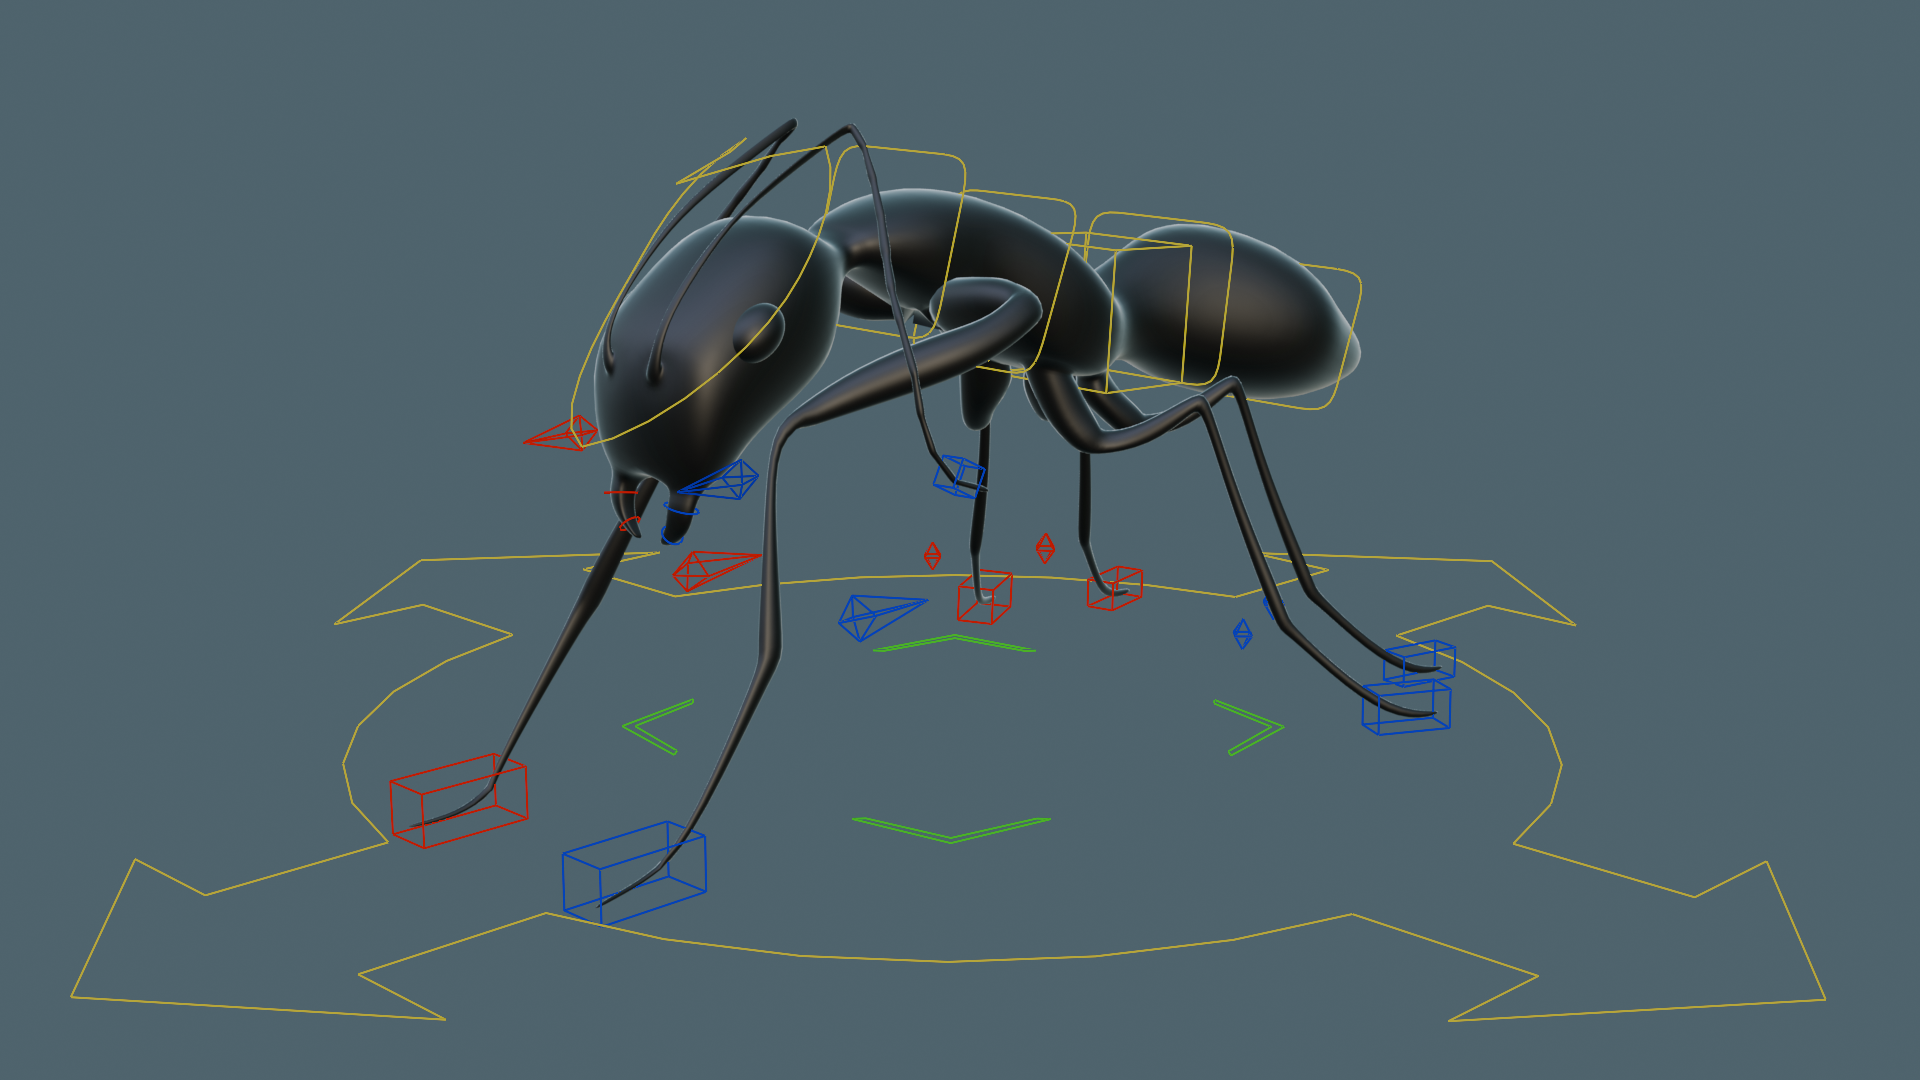
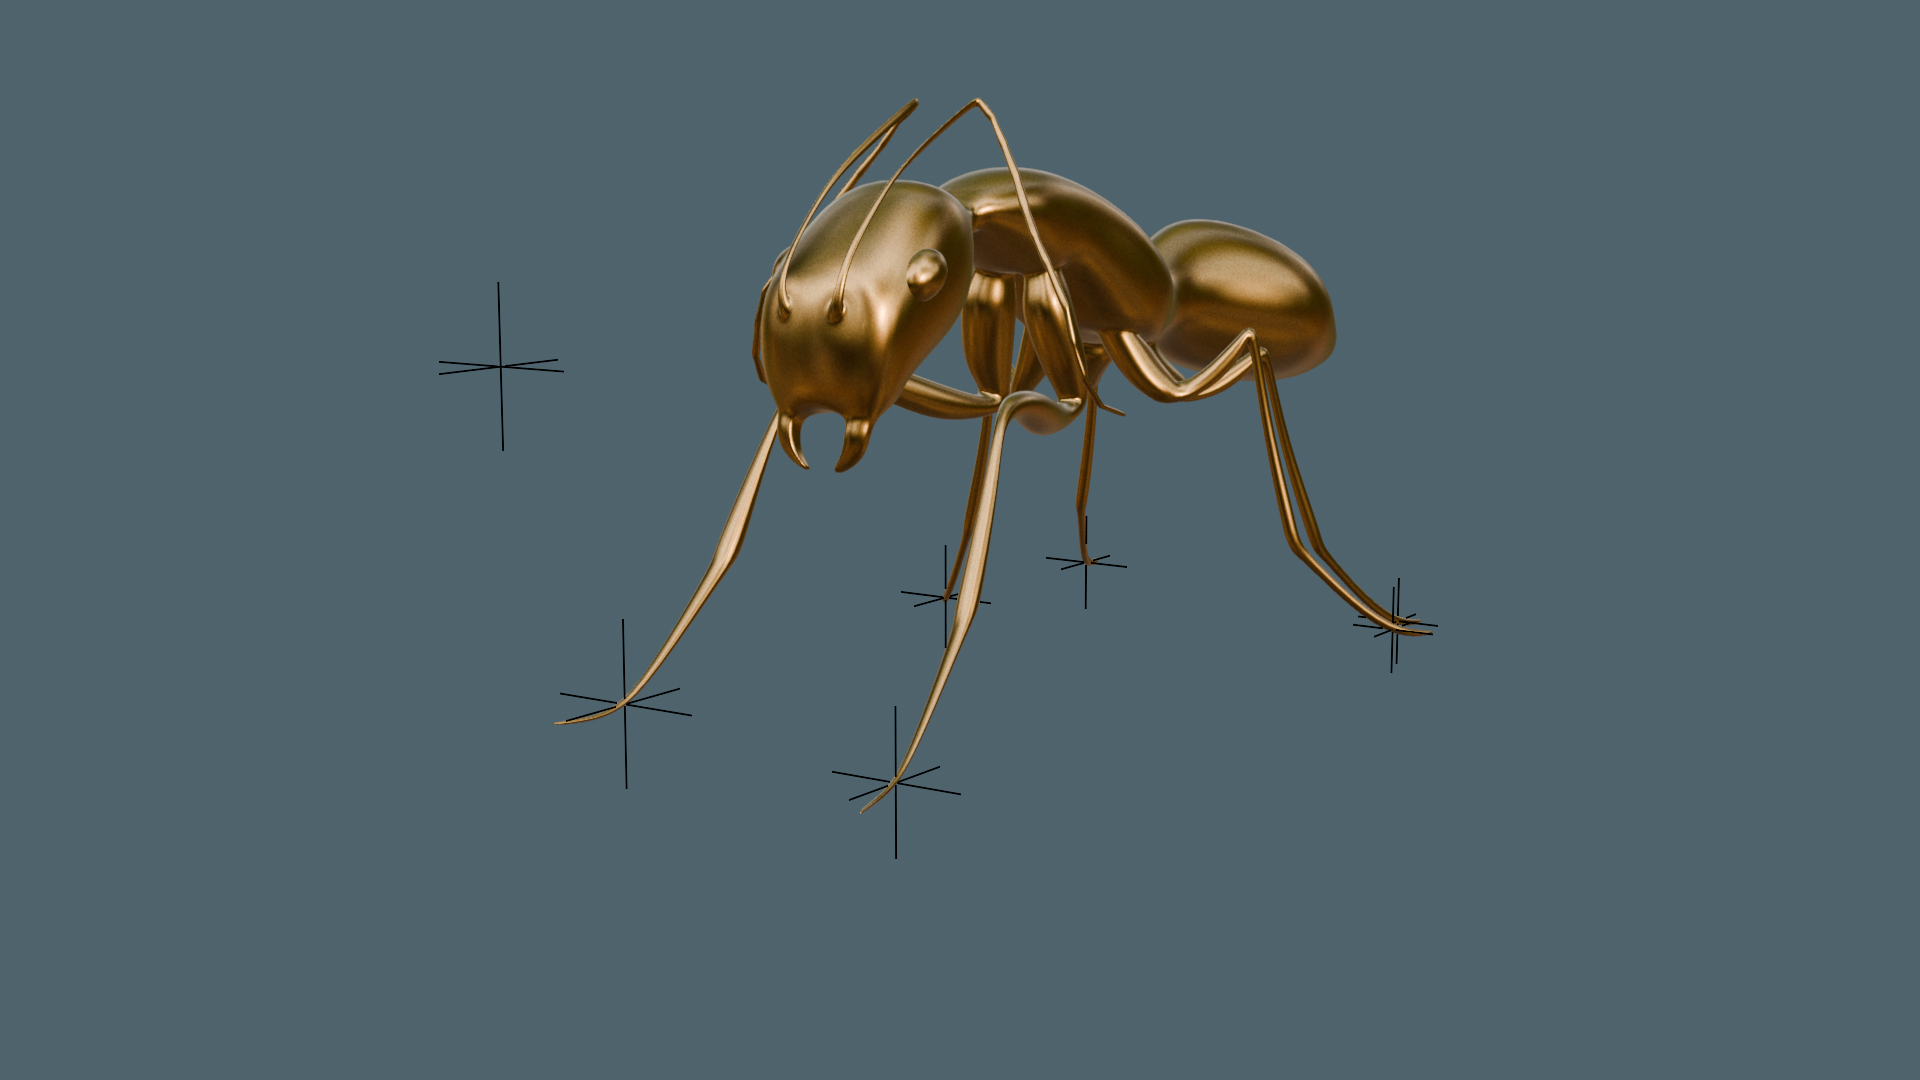
Update project data and enhance project card functionality: add new images, refine tags, and implement tag filtering

diff --git a/src/data/projects.ts b/src/data/projects.ts
@@ -535,7 +535,7 @@ export const projectGroups: ProjectGroup[] = [
         title: 'Girl Rig',
         description:
           'Stylized girl character rig with jiggle bones for hair and clothing movement, corrective shapes and toggleable IK/FK controls, validated through a series of animation tests.',
-        tags: [{ label: 'Blender' }, { label: 'IK/FK' }, { label: 'Jiggle Bones' }],
+        tags: [{ label: 'Blender' }, { label: 'Unity' }, { label: 'IK/FK' }, { label: 'Jiggle Bones' }, { label: 'Animation' }, { label: 'Custom UI' }, { label: 'Physics' }, { label: 'Game-Ready' }],
         ariaLabel: 'Abrir Girl Rig',
         image: projects.girl.preview,
         project: 'girl',
@@ -546,7 +546,7 @@ export const projectGroups: ProjectGroup[] = [
         title: 'Bunny Rig',
         description:
           'Stylized bunny character rig with FK limbs, facial controls and corrective shapes, built for simple movements during the Gauntlet Of Gods challenge animation.',
-        tags: [{ label: 'Blender' }, { label: 'FK Controls' }, { label: 'Corrective Shapes' }],
+        tags: [{ label: 'Blender' }, { label: 'Animation' }, { label: 'FK Controls' }, { label: 'Corrective Shapes' }],
         ariaLabel: 'Abrir Bunny Rig',
         image: projects.bunny.preview,
         project: 'bunny',
@@ -568,7 +568,7 @@ export const projectGroups: ProjectGroup[] = [
         title: 'Gatoppel',
         description:
           'Stylized cat character rig with FK limbs, intuitive control curves and secondary motion for lively performances.',
-        tags: [{ label: 'Blender' }, { label: 'FK Limbs' }, { label: 'Control Curves' }],
+        tags: [{ label: 'Blender' }, { label: 'Custom UI' }, { label: 'FK Limbs' }, { label: 'Control Curves' }],
         ariaLabel: 'Abrir Gatoppel',
         image: projects.gatoppel.preview,
         project: 'gatoppel',
@@ -579,7 +579,7 @@ export const projectGroups: ProjectGroup[] = [
         title: 'Mercy Rig',
         description:
           'Mercy character rig with FK and IK setups for body and legs, detailed hand, facial and body controls, with switches for IK/FK and enabling or disabling controls. Designed for animation and game development.',
-        tags: [{ label: 'Maya' }, { label: 'IK/FK' }, { label: 'Game-Ready' }, { label: 'WIP' }],
+        tags: [{ label: 'Maya' }, { label: 'IK/FK' }, { label: 'Blendshapes' }, { label: 'Deformation' }, { label: 'Custom UI' }, { label: 'WIP' }],
         ariaLabel: 'Abrir Mercy Rig',
         image: projects['mercy-rig'].preview,
         project: 'mercy-rig',
@@ -590,7 +590,7 @@ export const projectGroups: ProjectGroup[] = [
         title: 'Monster Leg',
         description:
           'Creature leg rig with IK/FK blending, corrective shapes and foot roll, built for monster locomotion.',
-        tags: [{ label: 'Maya' }, { label: 'IK/FK' }, { label: 'Foot Controls' }],
+        tags: [{ label: 'Maya' }, { label: 'Deformation' }, { label: 'IK/FK' }, { label: 'Foot Controls' }],
         ariaLabel: 'Abrir Monster Leg',
         image: projects['monster-leg'].preview,
         project: 'monster-leg',
@@ -634,7 +634,7 @@ export const projectGroups: ProjectGroup[] = [
         title: 'Bear Rig - AR',
         description:
           'Lightweight rig for an augmented reality mobile experience in Unity, triggered via QR code scanning on a presentation card, optimized for a low-poly mesh with intuitive controls.',
-        tags: [{ label: 'Unity' }, { label: 'AR' }, { label: 'Low Poly' }],
+        tags: [{ label: 'Blender' }, { label: 'Unity' }, { label: 'AR' }, { label: 'Low Poly' }, { label: 'Animation' }, { label: 'Game-Ready' }],
         ariaLabel: 'Abrir Bear Rig',
         image: projects.bear.preview,
         project: 'bear',
@@ -645,7 +645,7 @@ export const projectGroups: ProjectGroup[] = [
         title: 'Ant Model',
         description:
           'Low poly character model made for rigging, optimized to be used on a C++ with DirectX 11 engine.',
-        tags: [{ label: 'Blender' }, { label: 'Modeling' }, { label: 'Low Poly' }],
+        tags: [{ label: 'Blender' }, { label: 'Modeling' }, { label: 'Low Poly' }, { label: 'Game-Ready' }],
         ariaLabel: 'Abrir Ant Model',
         image: projects['ant-model'].preview,
         project: 'ant-model',
@@ -661,7 +661,7 @@ export const projectGroups: ProjectGroup[] = [
         title: 'Complex Arm',
         description:
           'Hard-surface rig in Maya with precise constraints and FK controls for mechanical articulation and ease of use.',
-        tags: [{ label: 'Maya' }],
+        tags: [{ label: 'Maya' }, { label: 'Custom UI' }],
         ariaLabel: 'Abrir Complex Arm',
         image: projects['mechanical-arm'].preview,
         project: 'mechanical-arm',
@@ -705,7 +705,7 @@ export const projectGroups: ProjectGroup[] = [
         title: 'Simple Arm',
         description:
           'Simple robotic arm rig with articulated joints and clean constraints for mechanical motion tests.',
-        tags: [{ label: 'Maya' }],
+        tags: [{ label: 'Maya' }, { label: 'Custom UI' }],
         ariaLabel: 'Abrir Simple Arm',
         image: projects['simple-arm'].preview,
         project: 'simple-arm',
@@ -721,7 +721,7 @@ export const projectGroups: ProjectGroup[] = [
         title: 'Eye Rig',
         description:
           'Eye rig with aim-constrained look-at controls, driver-driven blinks and supportive shaping for expressive character gazes.',
-        tags: [{ label: 'Blender' }],
+        tags: [{ label: 'Blender' }, { label: 'Animation' }],
         ariaLabel: 'Abrir Eye Rig',
         image: projects.eye.preview,
         project: 'eye',
@@ -732,7 +732,7 @@ export const projectGroups: ProjectGroup[] = [
         title: 'Simple Ball',
         description:
           'A P2Design rigging course assignment: bouncing ball rig built to practice animation principles with squash & stretch controls and an intuitive setup for timing and spacing.',
-        tags: [{ label: 'Blender' }],
+        tags: [{ label: 'Blender' }, { label: 'Deformation' }],
         ariaLabel: 'Abrir Simple Ball',
         image: projects.ball.preview,
         project: 'ball',
